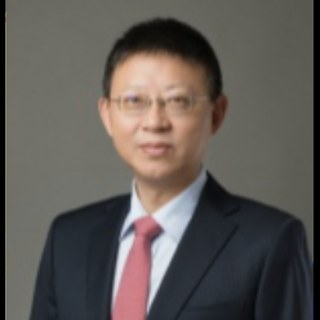
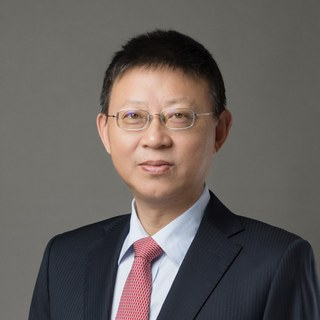
作者头像扩到 8 位：从学院师资接口取官方照片，含谢启鸿、王凯、邱维元

diff --git a/site/assets/authors/CREDITS.md b/site/assets/authors/CREDITS.md
@@ -4,9 +4,12 @@
 
 | 文件 | 人物 | 来源 | 授权 |
 | --- | --- | --- | --- |
-| `chen-meng.jpg` | 陈猛 | 复旦大学教师个人主页 <https://faculty.fudan.edu.cn/chenmeng/zh_CN/index.htm> | 官方主页公开照片；仅用于身份标识 |
-| `ying-jiangang.jpg` | 应坚刚 | 复旦大学教师个人主页 <https://faculty.fudan.edu.cn/yingjiangang/zh_CN/index.htm> | 官方主页公开照片；仅用于身份标识 |
-| `chen-wenbin.jpg` | 陈文斌 | 复旦大学教师个人主页 <https://faculty.fudan.edu.cn/WenbinChen/zh_CN/index.htm> | 官方主页公开照片；仅用于身份标识 |
+| `xie-qihong.jpg` | 谢启鸿 | 复旦数学科学学院教职员工页 <https://math.fudan.edu.cn/jzyg/list.htm>（个人页 `fa/03/c30607a326147/page.htm`） | 学院官网公开照片；仅用于身份标识 |
+| `wang-kai.jpg` | 王凯 | 同上（`fa/08/c30607a326152/page.htm`） | 学院官网公开照片；仅用于身份标识 |
+| `qiu-weiyuan.jpg` | 邱维元 | 同上（`fa/10/c30607a326160/page.htm`） | 学院官网公开照片；仅用于身份标识 |
+| `chen-meng.jpg` | 陈猛 | 同上（`fa/2b/c30607a326187/page.htm`） | 学院官网公开照片；仅用于身份标识 |
+| `ying-jiangang.jpg` | 应坚刚 | 同上（`fa/5d/c30607a326237/page.htm`） | 学院官网公开照片；仅用于身份标识 |
+| `chen-wenbin.jpg` | 陈文斌 | 同上（`fa/5c/c30607a326236/page.htm`） | 学院官网公开照片；仅用于身份标识 |
 | `su-buqing.jpg` | 苏步青 | Wikimedia Commons，`File:年轻苏步青.png` <https://commons.wikimedia.org/wiki/File:年轻苏步青.png> | Public domain（公有领域） |
 
-其余作者暂无官方公开头像，站点显示姓氏首字徽标。如作者本人或权利人要求下架，删除对应文件并从 `_book.md` 移除 `author_img` 一行即可。
+其余作者（陈纪修、李元熹、丁同仁等）在学院师资页无公开照片，站点显示姓氏首字徽标。如作者本人或权利人要求下架，删除对应文件并从 `_book.md` 移除 `author_img` 一行即可。

diff --git a/TODO.md b/TODO.md
@@ -4,7 +4,7 @@
 
 ## 一、待拍板
 
-1. **作者照片**：已接入 4 位（陈猛、应坚刚、陈文斌、苏步青）；其余作者在学院师资页与个人主页均无公开头像，显示首字徽标，待有授权素材再补。
+1. **作者照片**：已接入 8 位（谢启鸿、王凯、邱维元、陈猛、应坚刚、陈文斌、苏步青；高代与高代辅导共用谢启鸿）；陈纪修、李元熹、丁同仁、实变作者在学院师资页无公开照片，显示首字徽标。
 2. **高代辅导书**（白皮书）是否单独立项，还是只作核对。
 3. **实变作者名**（`content/shibian/_book.md` 目前写「待确认」）。
 4. **弱收敛记号**统一为 `\xrightharpoonup` 还是 `\xrightarrow{w}`（见疑点汇总 C 类）。

diff --git a/content/gaodai/_book.md b/content/gaodai/_book.md
@@ -3,6 +3,7 @@ id: gaodai
 title: 高等代数学
 short: 高等代数
 author: 谢启鸿、姚慕生、吴泉水
+author_img: assets/authors/xie-qihong.jpg
 source: 高等代数谢启鸿.pdf
 note: 教材第四版（2022）。只收教材正文，习题与复习题不录。
 tag_style: section

diff --git a/content/gaodai_fudao/_book.md b/content/gaodai_fudao/_book.md
@@ -3,6 +3,7 @@ id: gaodai_fudao
 title: 高等代数学习指导
 short: 高代辅导
 author: 谢启鸿
+author_img: assets/authors/xie-qihong.jpg
 source: 白皮谢启鸿.pdf
 note: 辅导书。只补教材未覆盖的结论与典型例子，与教材重复的内容不再录入。
 order: 4

diff --git a/content/fubian/_book.md b/content/fubian/_book.md
@@ -2,6 +2,7 @@
 id: fubian
 title: 复变函数
 author: 邱维元、沈维孝、王珺
+author_img: assets/authors/qiu-weiyuan.jpg
 source: 复变函数_2025_cropped.pdf
 order: 7
 ---

diff --git a/content/fanhan/_book.md b/content/fanhan/_book.md
@@ -2,6 +2,7 @@
 id: fanhan
 title: 泛函分析
 author: 王凯
+author_img: assets/authors/wang-kai.jpg
 source: 泛函王凯.pdf
 order: 11
 ---
